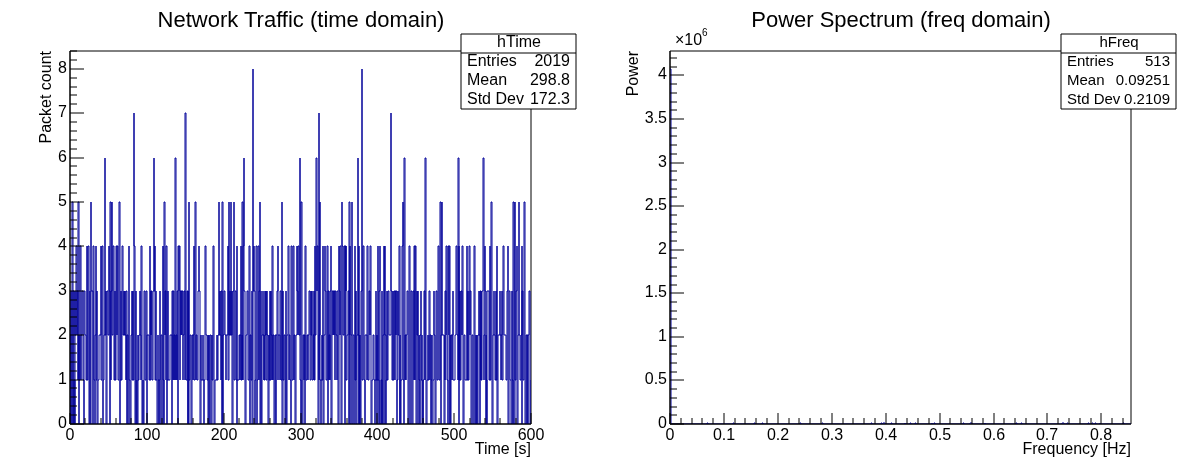
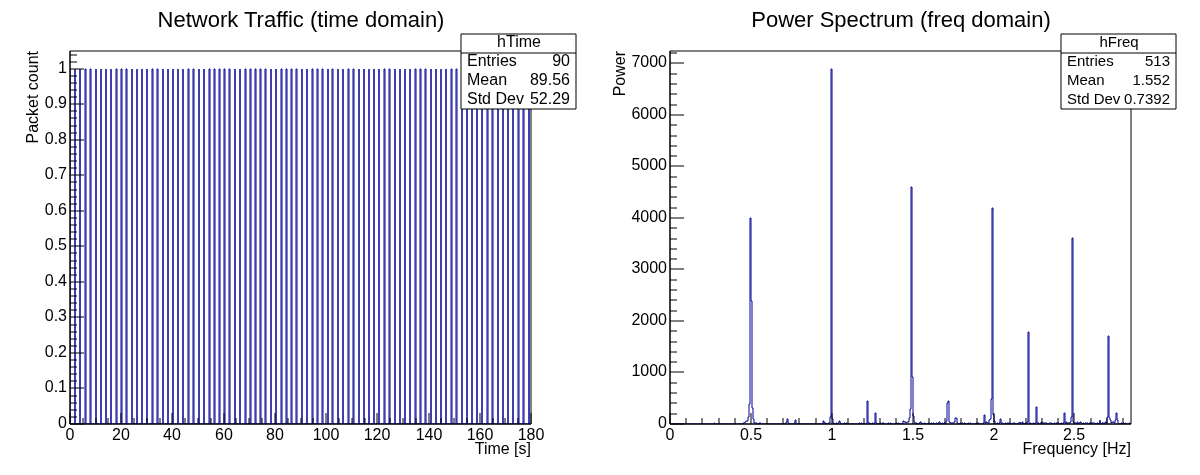
fiksa lukas/william og lagde en main fil, kjører ikke enda

diff --git a/william.cpp b/william.cpp
@@ -35,7 +35,7 @@ struct DetectionResult {
     std::vector<BeaconHit> hits;
 };
 
-DetectionResult run_lukas_detection_rule(TH1D *hFreq, double noiseGateHz = 0.4)
+DetectionResult run_lukas_detection_rule(TH1D *hFreq, double noiseGateHz = 0.05)
 {
     // Kjører samme deteksjonslogikk som Lukas: ignorer lavfrekvent støy
     // og beregn en dynamisk 5-sigma terskel fra resten av spekteret.
@@ -53,7 +53,7 @@ DetectionResult run_lukas_detection_rule(TH1D *hFreq, double noiseGateHz = 0.4)
 
     for (int i = 1; i <= hFreq->GetNbinsX(); i++) {
         double frequency = hFreq->GetBinCenter(i);
-        if (frequency < noiseGateHz) {
+        if (frequency <= noiseGateHz) {
             continue;
         }
 
@@ -78,7 +78,7 @@ DetectionResult run_lukas_detection_rule(TH1D *hFreq, double noiseGateHz = 0.4)
         double frequency = hFreq->GetBinCenter(i);
         double power = hFreq->GetBinContent(i);
 
-        if (frequency < noiseGateHz || power <= result.threshold) {
+        if (frequency <= noiseGateHz || power <= result.threshold) {
             continue;
         }
 

diff --git a/main.cpp b/main.cpp
@@ -1,0 +1,24 @@
+// Master-skript som kjører alle modulene i riktig rekkefølge.
+// Kjør med: root -l run_all.cpp
+
+#include "TROOT.h"
+#include <iostream>
+
+void run_all()
+{
+    std::cout << "\n=========================================" << std::endl;
+    std::cout << "   PHYS291 - NETWORK BEACON DETECTOR     " << std::endl;
+    std::cout << "=========================================\n" << std::endl;
+
+    std::cout << ">>> STARTER MODUL B (AUGUST) <<<" << std::endl;
+    // Dette tilsvarer å skrive ".x august.cpp" i ROOT-terminalen
+    gROOT->ProcessLine(".x august.cpp");
+
+    std::cout << "\n>>> STARTER MODUL C & D (WILLIAM / LUKAS) <<<" << std::endl;
+    // Kjører Williams dashboard (som inneholder Lukas sin deteksjonslogikk)
+    gROOT->ProcessLine(".x william.cpp");
+
+    std::cout << "\n=========================================" << std::endl;
+    std::cout << "Kjøring fullført! Sjekk william_dashboard.png" << std::endl;
+    std::cout << "=========================================\n" << std::endl;
+}

diff --git a/lukas.cpp b/lukas.cpp
@@ -29,10 +29,10 @@ void lukas()
     double sum_sq = 0.0;
     int count = 0;
 
-    // Vi ignorerer alt under 0.4 Hz for å fjerne den massive surfestøyveggen fra snittet
+    // Vi ignorerer alt under 0.05 Hz for å fjerne den massive surfestøyveggen fra snittet
     for (int i = 1; i <= nBins; i++) {
         double freq = hFreq->GetBinCenter(i);
-        if (freq >= 0.4) { 
+        if (freq >= 0.05) { 
             double val = hFreq->GetBinContent(i);
             sum += val;
             sum_sq += val * val;

diff --git a/august.cpp b/august.cpp
@@ -26,10 +26,10 @@ void august()
 
     // Laster inn data (Leser de tre kolonnene fra Tshark)
     // SATT TIL SCENARIO 3 FOR Å TESTE DETEKSJON I STØY:
-    ifstream fin("scenario3_mixed_beacon.txt");
+    ifstream fin("datasett2_beacon.txt");
     if (!fin)
     {
-        cout << "Error: Kunne ikke åpne scenario3_mixed_beacon.txt!\n";
+        cout << "Error: Kunne ikke åpne datasett2_beacon.txt!\n";
         return;
     }
 

diff --git a/README.md b/README.md
@@ -27,3 +27,6 @@ threat detection. All code in C++/ROOT.
 **Student(Lukas):** Ansvarlig for Statistisk Analyse og Terskeldeteksjon (Modul C)Fokus: Implementering av trusseldeteksjon basert på statistisk signifikans (Vi tenker 5sigma terskel), fiting av bakgrunnsstøy (TF1), og matematisk beregning av alarmbetingelser.
 
 **Student(William):** Ansvarlig for Systemintegrasjon, Visualisering og GUI (Modul D)Fokus: Design av det endelige kontrollpanelet (TCanvas med tids- og frekvensdomene synkronisert), teknisk dokumentasjon av kode-grensesnittene, og eventuell implementering av interaktive kontrollskivere (sliders).
+
+
+Når vi oppdager en beacon, ser vi at FFT-en også slår ut på de harmoniske frekvensene (multipler av grunnfrekvensen). Vi vurderte å filtrere ut disse i koden for å få en renere utskrift. Vi valgte imidlertid å ikke gjøre det, fordi det skaper en sårbarhet: En angriper kunne da ha gjemt en 2 Hz beacon i skyggen av en 1 Hz beacon, og detektoren vår ville ignorert den.
